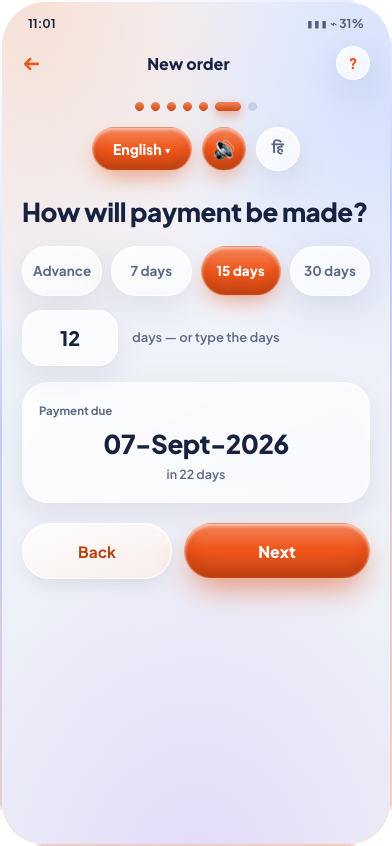
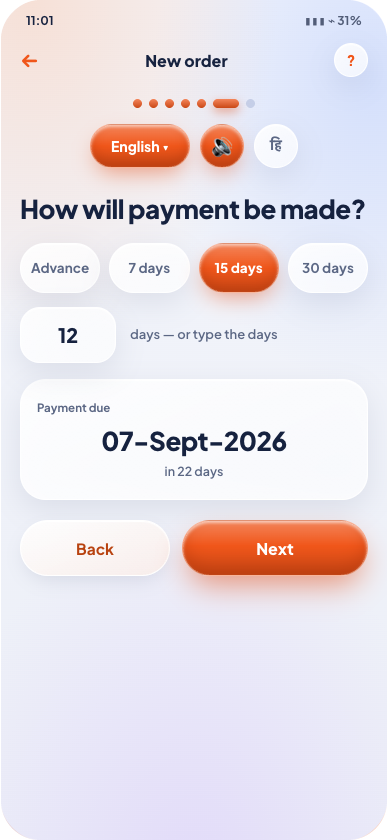
Trim the bezel off every screenshot edge, not just the corners
The rounded mask fixed the corners but left a line along the top and bottom of
every card. Two causes, both in my own script.

A filter-based erode only bites where there is a transition inside the image, so
it pulled the corner arcs in and left the four straight edges untouched - two
rows of the phone's bezel highlight survived on every card. Each edge is now
trimmed from the crop box itself rather than eroded out of the mask.

The trim is measured per edge, because the bezel band is not symmetric: one
export carried 2 lines at the top and 8 on the left. The first detector looked
for where the colour settles, which is wrong - the backdrop outside the phone is
perfectly uniform, so that test fires on line zero and trims nothing. It now
finds the last sharp transition near the edge and trims past it, bounded to 14
lines so a bad read cannot eat the design.

All twelve verified clean at every edge: the largest colour step between the
first visible line and three lines in is 3 across the whole set, against 22 and
89 before.

tools-refine-screens.py is updated and the reasoning is in the README so a new
capture does not repeat any of this.

No horizontal overflow at 13 widths from 320 to 1920; desktop, 390px and
reduced-motion with no page errors.

diff --git a/tools-refine-screens.py b/tools-refine-screens.py
@@ -17,7 +17,27 @@ from PIL import Image, ImageDraw, ImageFilter
 
 TARGET_ASPECT = 392 / 846      # the shape the reel and the hero are built around
 THRESH = int(os.environ.get('THRESH', '60'))
-ERODE = int(os.environ.get('ERODE', '5'))   # MinFilter kernel; 5 trims ~2px
+INSET = int(os.environ.get('INSET', '3'))   # floor on the per-edge trim
+MAXTRIM = 14                                # cap, so a bad read cannot eat content
+
+
+def frame_depth(strip, tol=13):
+    """How many lines of phone frame sit at the start of this strip.
+
+    strip runs inward from the edge, one mean colour per line. Looking for where
+    the colour "settles" does not work: the backdrop outside the phone is itself
+    perfectly uniform, so that test fires on line zero and trims nothing. What
+    actually marks the end of the frame is the last sharp colour transition near
+    the edge — backdrop to bezel to screen — so trim past that.
+
+    Bounded tightly, because real screen content can carry an edge of its own and
+    over-trimming eats the design.
+    """
+    last = 0
+    for k in range(min(MAXTRIM, len(strip) - 1)):
+        if abs(strip[k] - strip[k + 1]).max() > tol:
+            last = k + 1
+    return last
 
 
 def refine(src, dst):
@@ -62,13 +82,28 @@ def refine(src, dst):
     # inward pull below absorb the difference.
     radius = round(bw * 0.108)
 
+    # Trim the box itself rather than eroding the mask. A filter-based erode only
+    # bites where there is a transition inside the image, so it pulled the corner
+    # arcs in but left the straight edges untouched — and those carried two rows
+    # of the phone's own frame highlight, which is exactly the line that showed
+    # along the top and bottom of every card.
+    src = np.asarray(im).astype(int)
+    inner = src[box[1]:box[3], box[0]:box[2]]
+    ih, iw = inner.shape[:2]
+    cy, cx = ih // 2, iw // 2
+    t = max(INSET, frame_depth([inner[y, cx // 2:cx + cx // 2].mean(0) for y in range(ih // 3)]))
+    b = max(INSET, frame_depth([inner[ih - 1 - y, cx // 2:cx + cx // 2].mean(0) for y in range(ih // 3)]))
+    l = max(INSET, frame_depth([inner[cy // 2:cy + cy // 2, x].mean(0) for x in range(iw // 3)]))
+    r = max(INSET, frame_depth([inner[cy // 2:cy + cy // 2, iw - 1 - x].mean(0) for x in range(iw // 3)]))
+    box = (box[0] + l, box[1] + t, box[2] - r, box[3] - b)
+    bw, bh = box[2] - box[0], box[3] - box[1]
+    radius = max(2, radius - max(l, r))
+
     SS = 4                                        # supersample for a smooth arc
     mask = Image.new('L', (bw * SS, bh * SS), 0)
     ImageDraw.Draw(mask).rounded_rectangle(
         (0, 0, bw * SS - 1, bh * SS - 1), radius=radius * SS, fill=255)
     mask = mask.resize((bw, bh), Image.LANCZOS)
-    # Pull in by a hair so no row of the old backdrop survives under the arc.
-    mask = mask.filter(ImageFilter.MinFilter(ERODE))
 
     card = Image.fromarray(np.asarray(im)[box[1]:box[3], box[0]:box[2]]).convert('RGB')
     card.putalpha(mask)

diff --git a/README.md b/README.md
@@ -234,6 +234,18 @@ different values — a dark gradient needs a loose threshold to span it, while a
 light-grey backdrop sits only ~28 levels from the card and floods straight
 through the screen if the threshold is loose.
 
+Each edge is then trimmed by a **measured** amount, not a fixed one. Captures
+carry a band of the phone's own bezel along every edge and it is not symmetric —
+one export had 2 lines at the top and 8 on the left. Note the detector looks for
+the *last sharp transition* near the edge, not for where the colour settles:
+the backdrop outside the phone is perfectly uniform, so a "has it settled" test
+fires on line zero and trims nothing.
+
+Trimming the box is also why the mask is not simply eroded. A filter-based erode
+only bites where there is a transition inside the image, so it pulls the corner
+arcs in but leaves the straight edges untouched — which is exactly how two rows
+of bezel survived along the top and bottom of every card.
+
 ## The hero device mockup
 
 Two devices float at a shared angle, staged the way a product mockup render would
